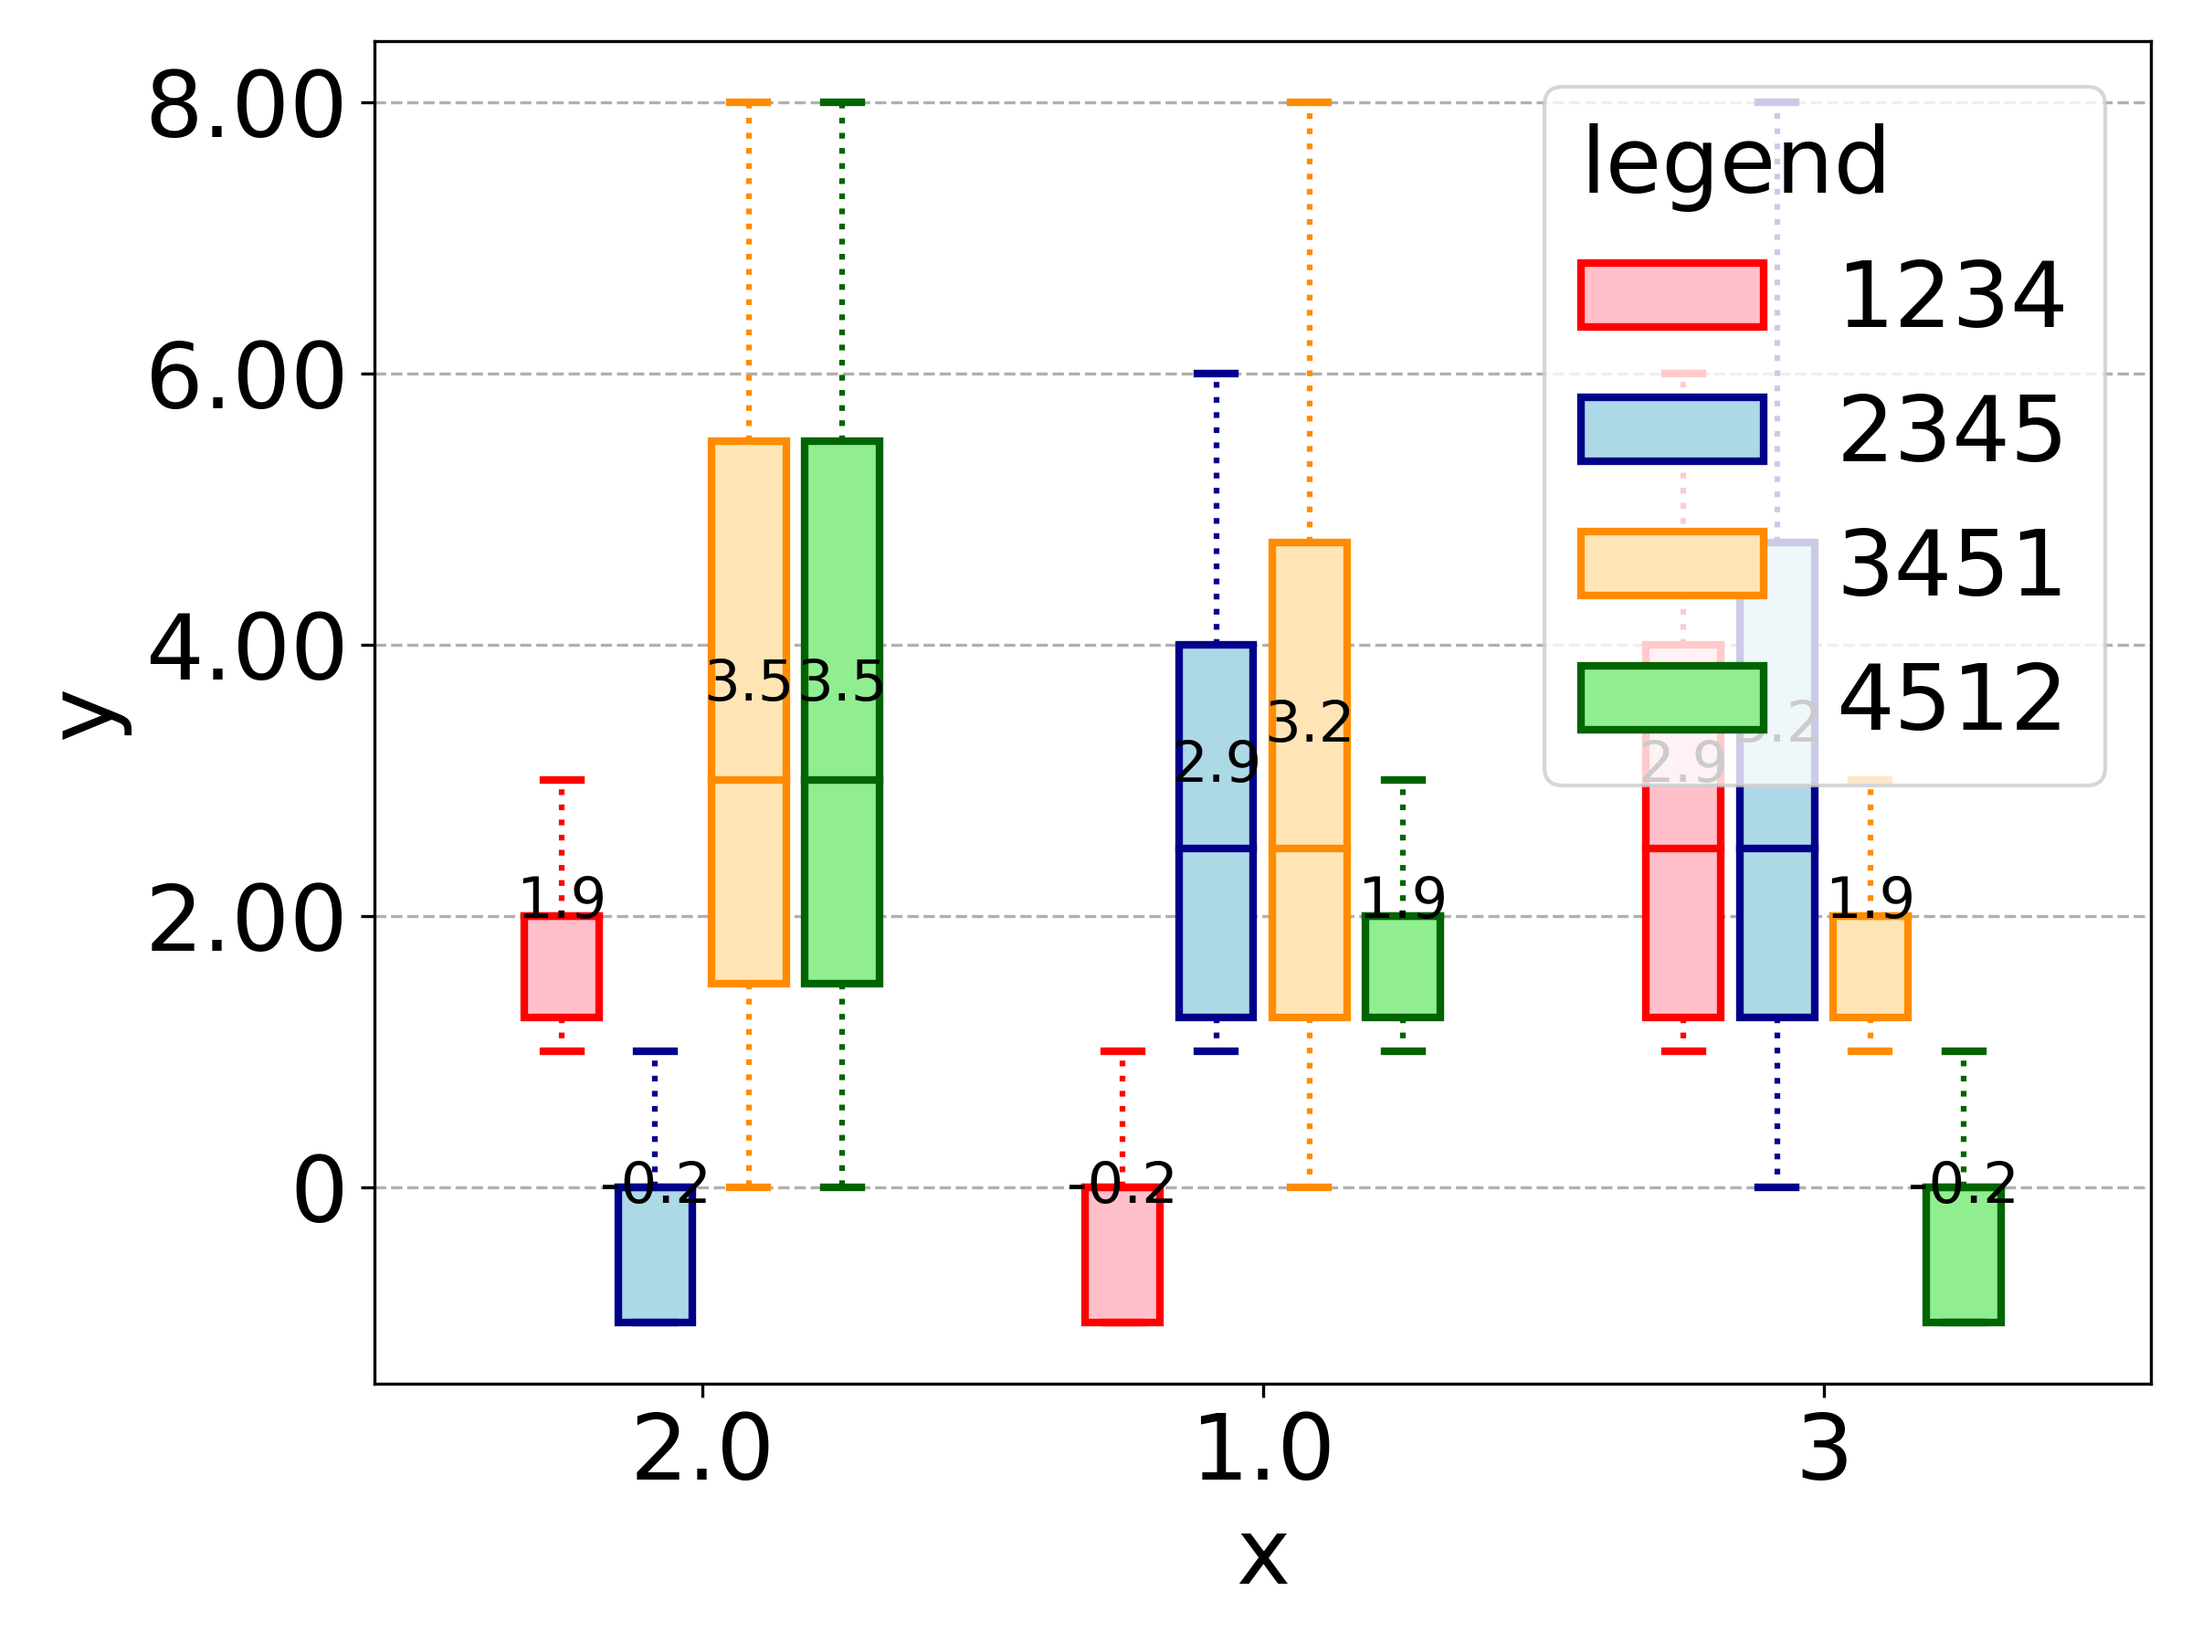
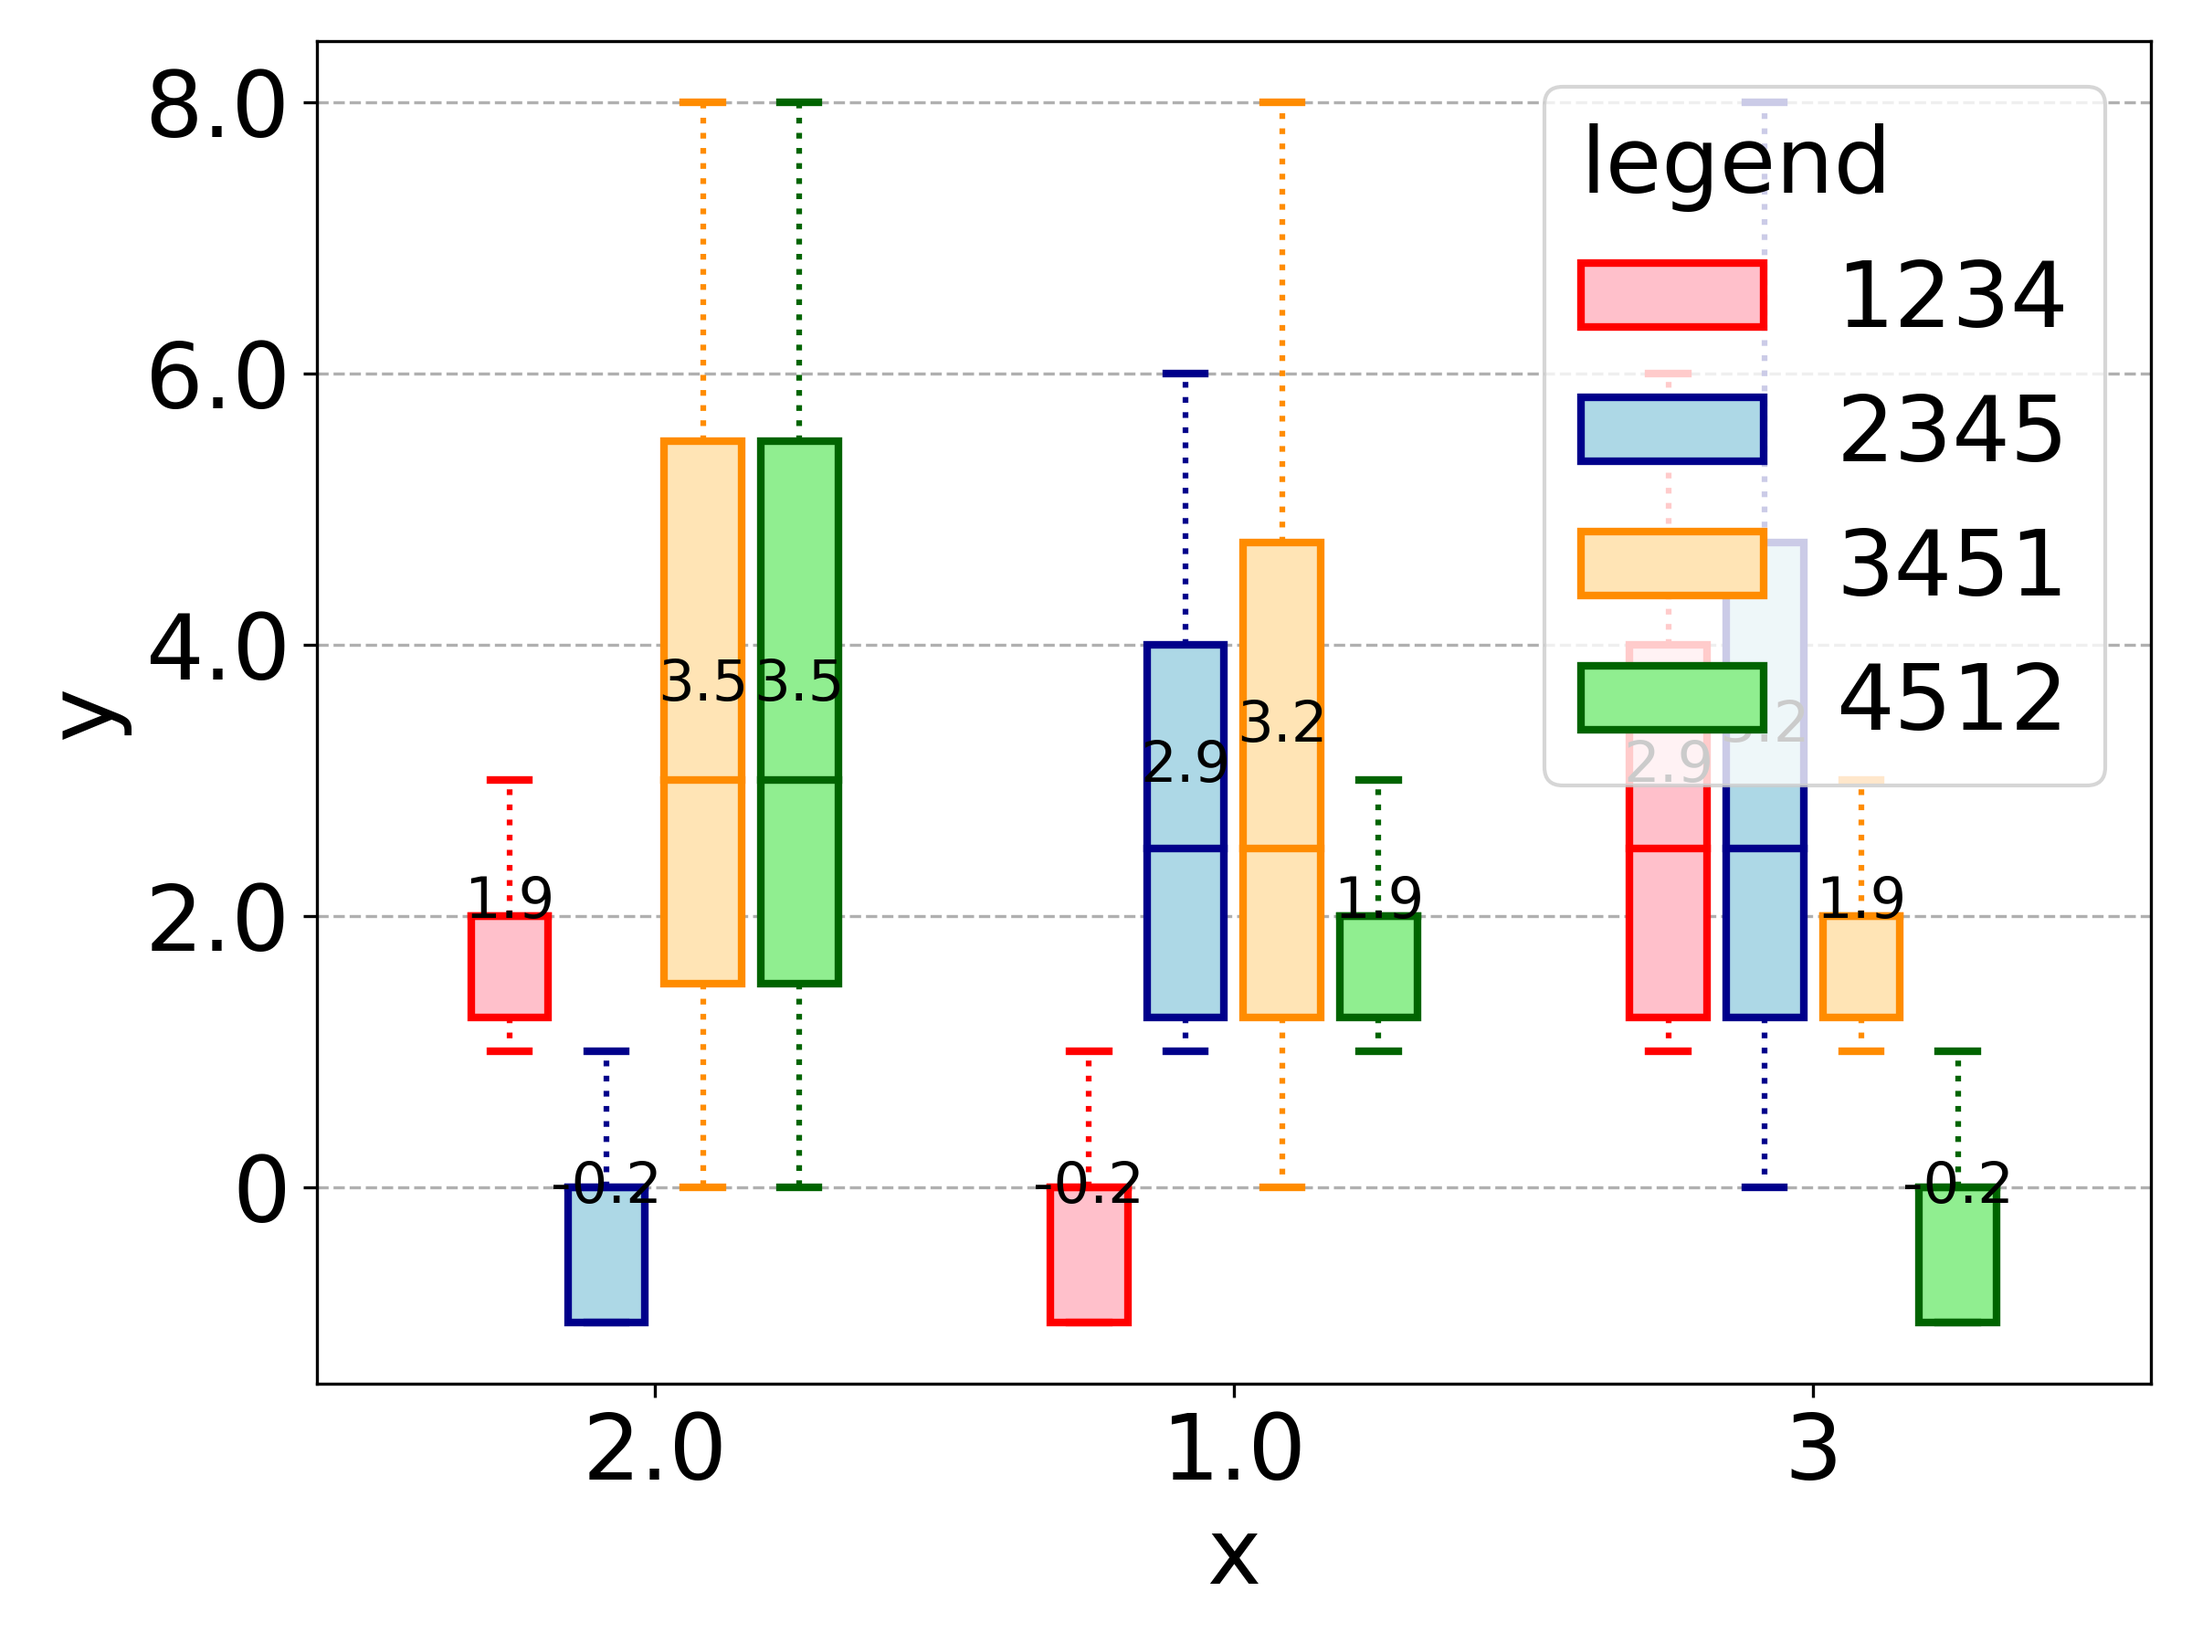
Update plotter

diff --git a/pyplotter/plot.py b/pyplotter/plot.py
@@ -227,9 +227,10 @@ class Plotter(Pyplot_config):
                 alpha=alpha,
                 label=cdf_label,
             )
-        # 修改ticks
-        ax.xaxis.set_major_locator(MaxNLocator(integer=False, prune="both"))
-        ax.yaxis.set_major_locator(MaxNLocator(integer=False, prune="both"))
+
+        # 设置 y 轴刻度范围
+        y_ticks = np.arange(0, 1.1, 0.1)  # 从 0 到 1（包含 1），以 0.1 为间隔的刻度
+        ax.set_yticks(y_ticks)
 
         # 创建图例
         legend = plt.legend(fontsize=self.legend_size, title=legend_title, loc=legend_loc, ncol=legend_ncol,

diff --git a/pyplotter/tick_formatter.py b/pyplotter/tick_formatter.py
@@ -11,7 +11,7 @@ class CustomFormatter(ticker.Formatter):
         if x == 0:
             return str(int(x))
         else:
-            return '{:.{}f}'.format(x, self.ndigits)
+            return round(x, self.ndigits)
 
 
 if __name__ == '__main__':
